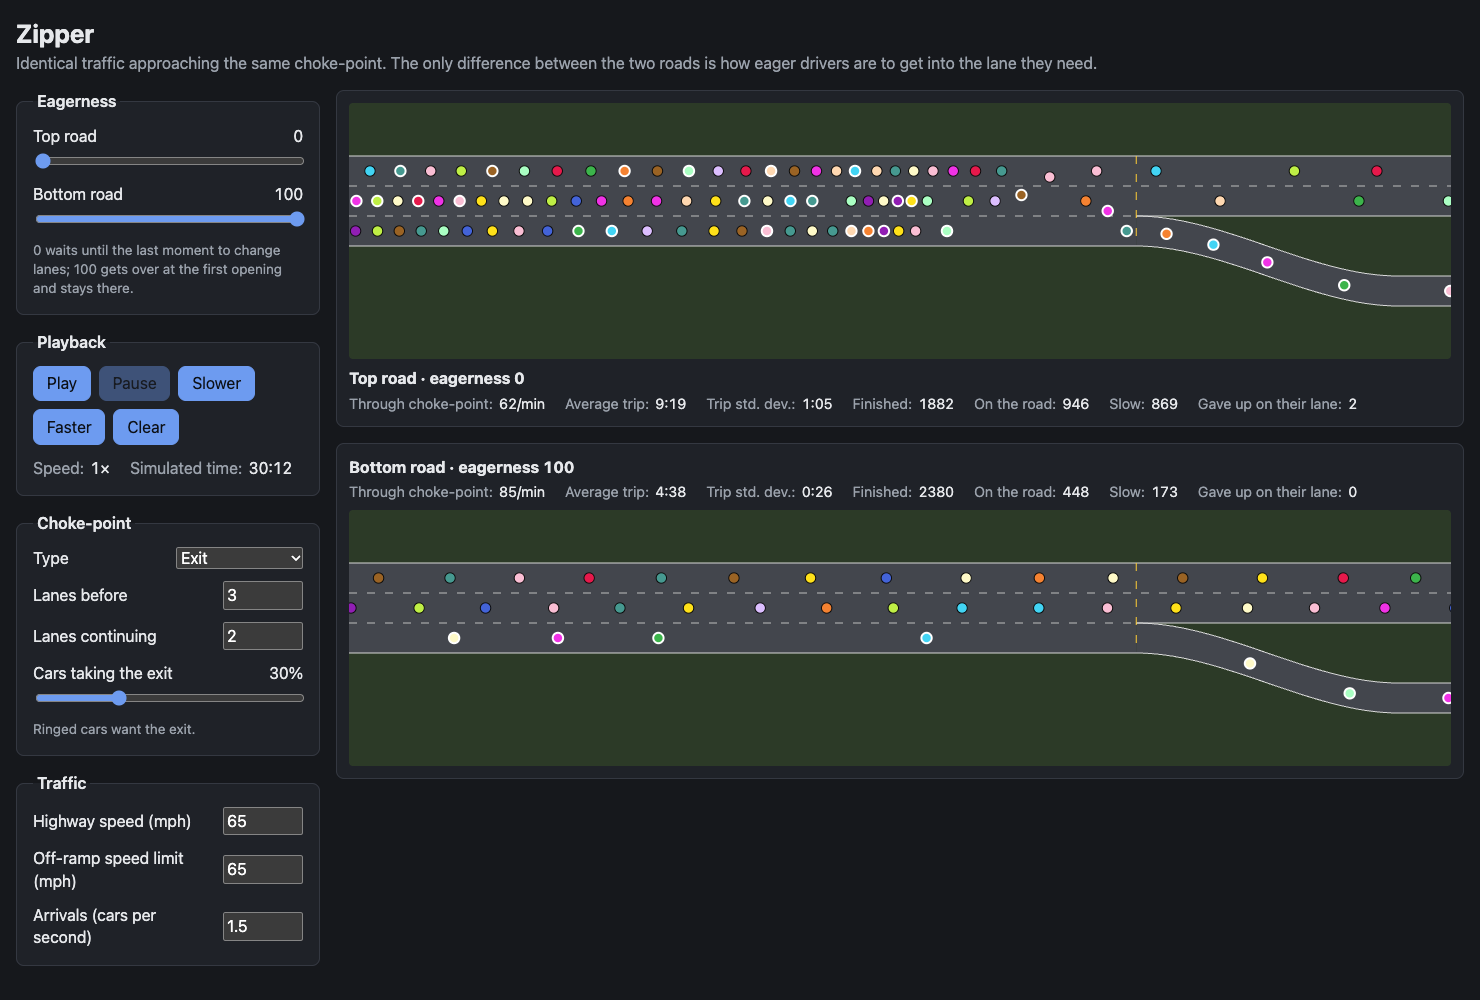
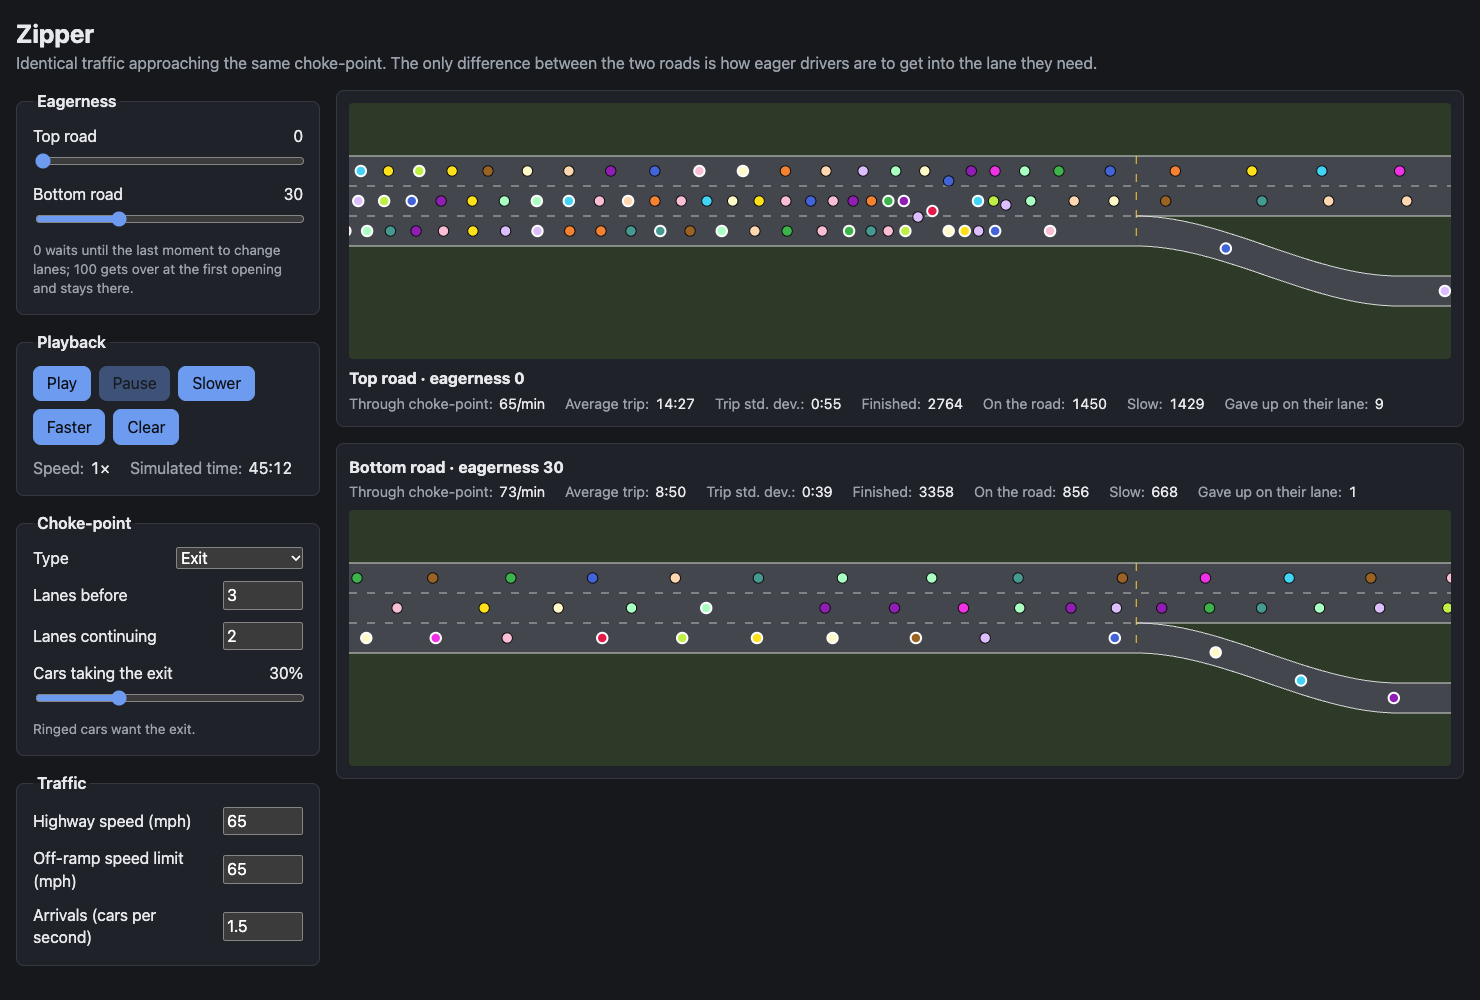
Default the bottom road to eagerness 30 and refresh the screenshot

diff --git a/index.html b/index.html
@@ -24,7 +24,7 @@
         </label>
         <label>Bottom road
           <output id="eagerBValue" for="eagerB"></output>
-          <input type="range" id="eagerB" min="0" max="100" step="1" value="100">
+          <input type="range" id="eagerB" min="0" max="100" step="1" value="30">
         </label>
         <p>0 waits until the last moment to change lanes; 100 gets over at the
           first opening and stays there.</p>

diff --git a/js/app.js b/js/app.js
@@ -12,7 +12,7 @@
     highwayMph: 65,
     limitMph: 65,
     arrivalRate: 1.5,
-    eagerness: [0, 100],
+    eagerness: [0, 30],
   };
 
   // Blank or half-typed number inputs keep the previous value.

diff --git a/README.md b/README.md
@@ -13,7 +13,7 @@ Each car is a colored dot. In exit scenarios, the cars with a white border
 are the ones that want to take the exit. Everyone else wants to stay on the
 highway, and has to get out of the exit lanes before the choke-point.
 
-![Two roads approaching a three-lane exit after 30 simulated minutes: the top road, with eagerness 0, is jammed in every lane, while the bottom road, with eagerness 100, is busy but keeps moving](docs/screenshot.png)
+![Two roads approaching a three-lane exit after 45 simulated minutes: the top road, with eagerness 0, is jammed in every lane, while the bottom road, with eagerness 30, is busy but keeps moving](docs/screenshot.png)
 
 To run it, open `index.html` in a browser. There is nothing to build or
 install.
